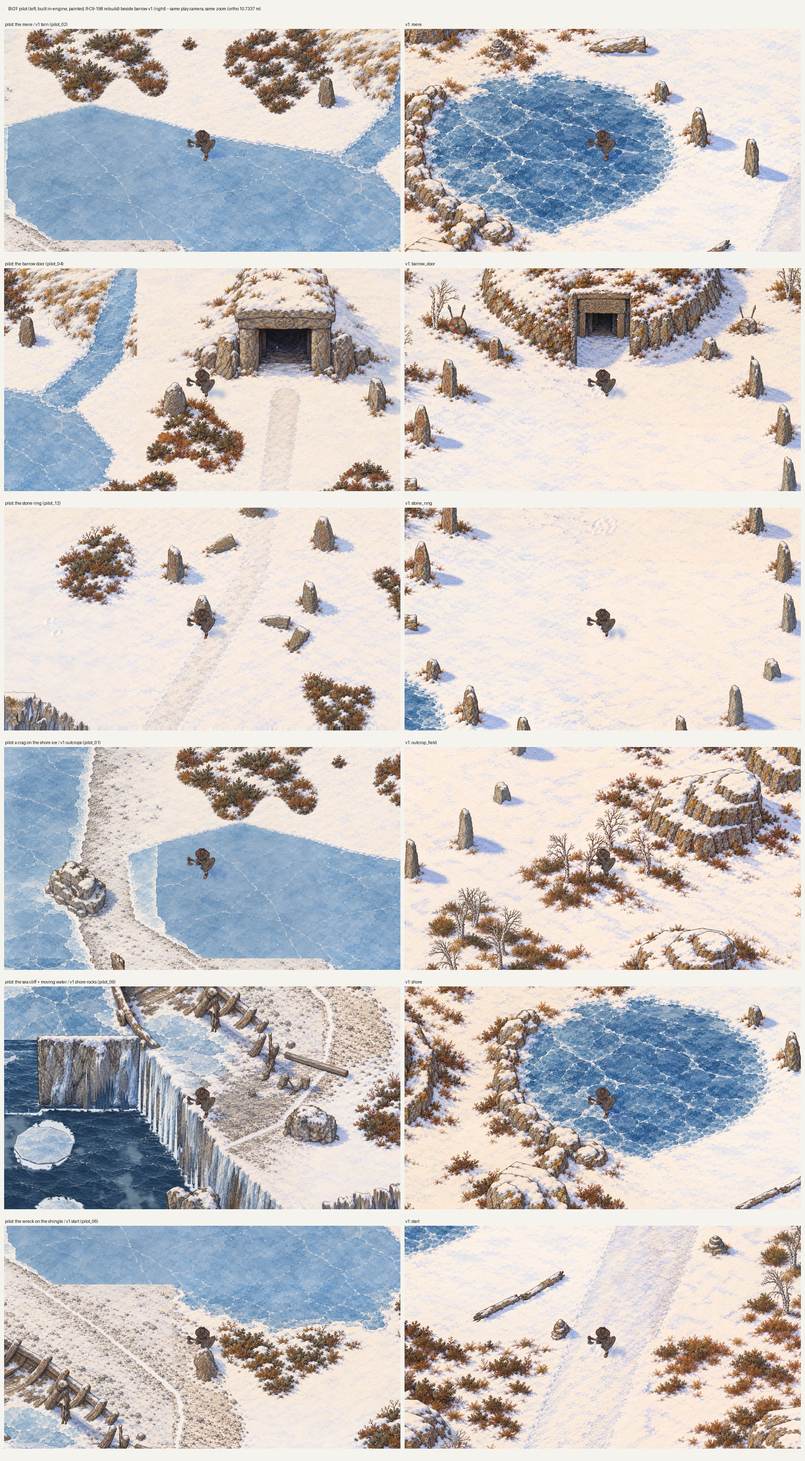
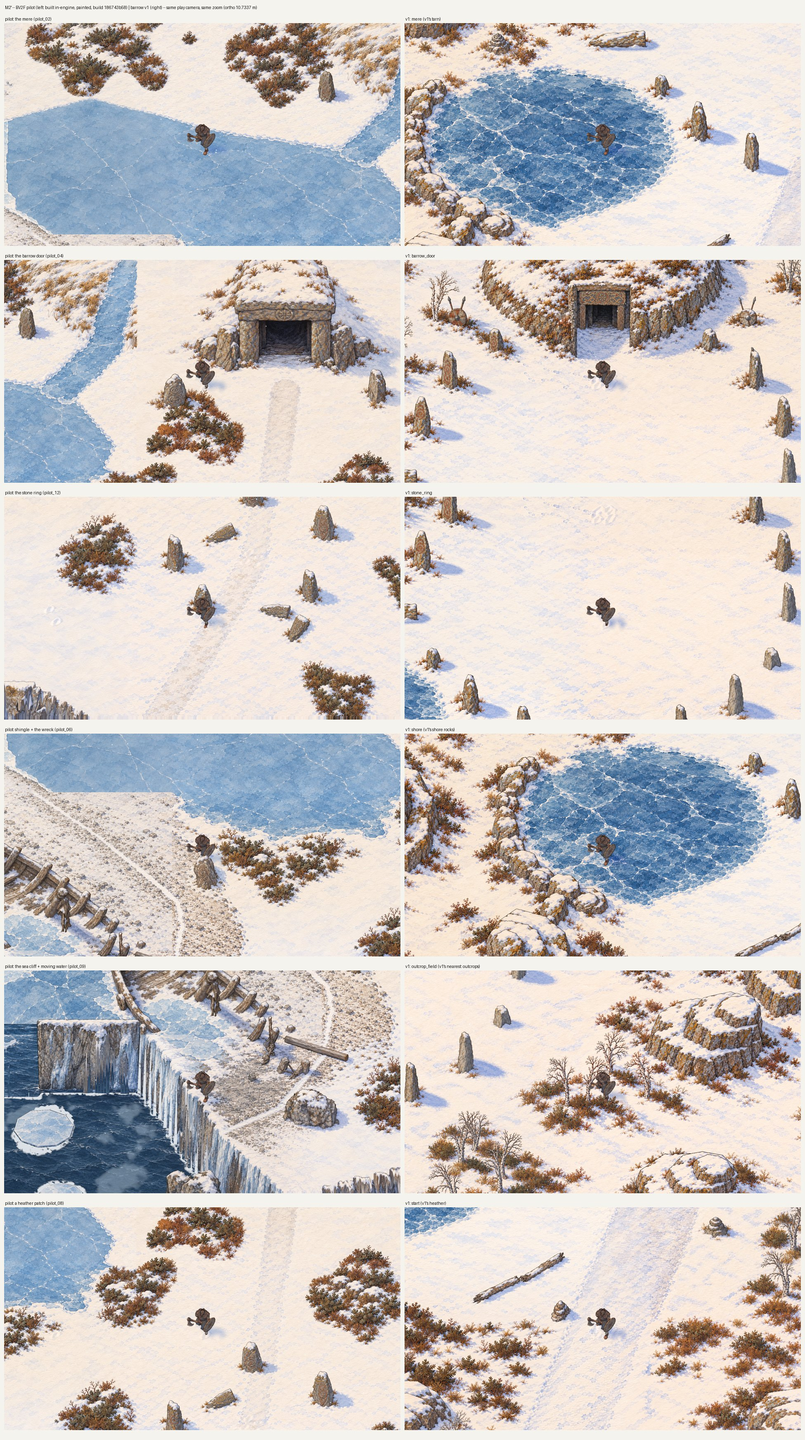
drax(C-9 P2 BV2F PT, R-C9-202): M2 material from build 186743b58 (no image spend) -- beside-v1 sheet (6 rows), ice/snow sheet (mere vs v1 tarn vs sketch A; coastal snow vs chunk 2_1 vs v1), slopes sheet (DEV-18 look check), walk film refreshed (37 s, fid/); F-6 positive control PASS at pin and HEAD,
Claude-Session: https://claude.ai/code/session_01Synmhf8YqWSEU9Kpsm5JJK

diff --git a/astra_test_01/burst/runs/C-9/barrow_v2/fid/pt/tools/m2_sheets.py b/astra_test_01/burst/runs/C-9/barrow_v2/fid/pt/tools/m2_sheets.py
@@ -1,0 +1,83 @@
+#!/usr/bin/env python3
+"""BV2F PT (R-C9-202): the M2' sheets from the CURRENT build's stills (no image spend), phone-sized (<= 2000 px wide).
+    python3 fid/pt/tools/m2_sheets.py <stills dir of the current build>"""
+import json, math, os, sys
+import numpy as np
+from PIL import Image, ImageDraw
+FID = os.path.dirname(os.path.dirname(os.path.dirname(os.path.abspath(__file__))))
+C9 = os.path.dirname(os.path.dirname(FID))
+ST = sys.argv[1]
+V1 = FID + "/pc/v1_stills"
+OUT = FID + "/pt/m2"
+os.makedirs(OUT, exist_ok=True)
+BG = (245, 243, 238)
+def lab(d, xy, s):
+    d.text(xy, s, fill=(20, 20, 20))
+# (1) pilot | v1, same zoom
+rows = [("the mere", "pilot_02", "mere (v1's tarn)"), ("the barrow door", "pilot_04", "barrow_door"),
+        ("the stone ring", "pilot_12", "stone_ring"), ("shingle + the wreck", "pilot_06", "shore (v1's shore rocks)"),
+        ("the sea cliff + moving water", "pilot_09", "outcrop_field (v1's nearest: outcrops)"),
+        ("a heather patch", "pilot_08", "start (v1's heather)")]
+W, H = 960, 540
+sh = Image.new("RGB", (2 * W + 30, len(rows) * (H + 34) + 46), BG)
+d = ImageDraw.Draw(sh)
+lab(d, (12, 12), "M2' -- BV2F pilot (left: built in-engine, painted, build 186743b58) | barrow v1 (right) -- same play camera, same zoom (ortho 10.7337 m)")
+for i, (cap, pn, v1n) in enumerate(rows):
+    y = 40 + i * (H + 34)
+    lab(d, (12, y), "pilot: %s (%s)" % (cap, pn)); lab(d, (W + 22, y), "v1: %s" % v1n)
+    sh.paste(Image.open("%s/%s.png" % (ST, pn)).convert("RGB").resize((W, H)), (10, y + 16))
+    sh.paste(Image.open("%s/%s.png" % (V1, v1n.split(" ")[0])).convert("RGB").resize((W, H)), (W + 20, y + 16))
+sh.save(OUT + "/M2p_pilot_beside_v1.jpg", quality=86)
+# (2) ice + snow
+PW, PH = 640, 360
+s2 = Image.new("RGB", (3 * PW + 40, 2 * (PH + 34) + 46), BG)
+d = ImageDraw.Draw(s2)
+lab(d, (12, 12), "M2' -- ICE: the pilot's mere | v1's tarn | sketch A's mere.   SNOW: coastal chunks 0_2/1_2 | neighbouring chunk 2_1 | v1 (painting crops, 1:1 px)")
+def fit(im, w, h):
+    im = im.convert("RGB"); r = max(w / im.width, h / im.height)
+    im = im.resize((int(im.width * r + 0.5), int(im.height * r + 0.5)))
+    x0, y0 = (im.width - w) // 2, (im.height - h) // 2
+    return im.crop((x0, y0, x0 + w, y0 + h))
+p02 = Image.open(ST + "/pilot_02.png"); v1m = Image.open(V1 + "/mere.png")
+sk = Image.open(C9 + "/barrow_v2/sites/BV3r2-A.png").crop((75, 72, 662, 374))
+for j, (im, cap) in enumerate([(p02.crop((0, 300, 1920, 1080)), "pilot mere (pilot_02, in-engine)"), (v1m.crop((0, 120, 1920, 900)), "v1 tarn (in-engine)"), (sk, "sketch A mere (BV3r2-A)")]):
+    x = 10 + j * (PW + 10); lab(d, (x, 40), cap); s2.paste(fit(im, PW, PH), (x, 56))
+# snow crops: the pilot painting / v1 painting, windows of mostly open snow
+P = np.asarray(Image.open(FID + "/pt/pilot/painting.png").convert("RGB"))
+I = json.load(open(FID + "/pt/pilot/ids_built/ids.json"))["placements"]
+ID8 = np.asarray(Image.open(FID + "/pt/pilot/ids_built.png").convert("RGB")).astype(int)
+idx = np.where(ID8[..., 2] > 100, np.clip(np.round((ID8[..., 1] - 8) / 16), 0, 15).astype(int) * 16 + np.clip(np.round((ID8[..., 0] - 8) / 16), 0, 15).astype(int), 0)
+snow = idx == {v["id"]: int(k) for k, v in I.items()}["ground_snow"]
+def best(mask, x0, y0, x1, y1):
+    bestv, bxy = -1, None
+    for y in range(y0, y1 - PH, 40):
+        for x in range(x0, x1 - PW, 40):
+            v = mask[y:y + PH, x:x + PW].mean()
+            if v > bestv: bestv, bxy = v, (x, y)
+    return bxy, bestv
+(a, va) = best(snow, 0, 1536, 2816, 2560)
+(b, vb) = best(snow, 2816, 768, 4096, 1792)
+V1P = np.asarray(Image.open(C9 + "/barrow_full/paint/barrow_full_painted.png").convert("RGB"))
+gu = np.asarray(Image.open(C9 + "/barrow_full/take/ground/ground_uv.png")); gu = gu[..., 0] if gu.ndim == 3 else gu
+V1I = np.asarray(Image.open(C9 + "/barrow_full/take/ids/ids.png").convert("RGB"))
+ground = V1I[..., 2] <= 100
+ys, xs = np.mgrid[0:V1P.shape[0], 0:V1P.shape[1]]
+uu = -28.715 + (xs + 0.5) / 100.617553710938; vv = 17.7203 - (ys + 0.5) / 80.3076
+gi = np.clip(((uu + 28.715) * 20).astype(int), 0, gu.shape[1] - 1); gj = np.clip(((17.7203 - vv) * 20).astype(int), 0, gu.shape[0] - 1)
+v1snow = ground & (gu[gj, gi] == 0)
+(c, vc) = best(v1snow, 0, 0, V1P.shape[1], V1P.shape[0])
+for j, (src, xy, share, cap) in enumerate([(P, a, va, "pilot coastal snow (chunks 0_2/1_2)"), (P, b, vb, "pilot snow, chunk 2_1"), (V1P, c, vc, "v1 open snow")]):
+    x = 10 + j * (PW + 10); y = 56 + PH + 34
+    lab(d, (x, y - 16), "%s  px %s, snow %.0f%%" % (cap, list(xy), 100 * share))
+    s2.paste(Image.fromarray(src[xy[1]:xy[1] + PH, xy[0]:xy[0] + PW]), (x, y))
+s2.save(OUT + "/M2p_ice_snow.jpg", quality=88)
+# (3) slopes: the mound flank (the northern rise, DEV-18) at 1:1 from the play-camera stills
+s3 = Image.new("RGB", (2 * W + 30, H + 70), BG)
+d = ImageDraw.Draw(s3)
+lab(d, (12, 12), "M2' -- SLOPES (R-C9-193 look check): the northern rise / mound flank at 1:1 px -- DEV-18 3D heather + snow layer on the terrain")
+for j, (pn, box, cap) in enumerate([("pilot_02", (480, 0, 1440, 540), "pilot_02 top: the rise above the mere"), ("pilot_03", (480, 0, 1440, 540), "pilot_03 top: the mound flank by the stream")]):
+    x = 10 + j * (W + 10); lab(d, (x, 36), cap)
+    s3.paste(Image.open("%s/%s.png" % (ST, pn)).convert("RGB").crop(box), (x, 54))
+s3.save(OUT + "/M2p_slopes.jpg", quality=88)
+for f in ("M2p_pilot_beside_v1.jpg", "M2p_ice_snow.jpg", "M2p_slopes.jpg"):
+    print(f, Image.open(OUT + "/" + f).size)

diff --git a/astra_test_01/burst/runs/C-9/barrow_v2/fid/pt/tools/pc5_compare.py b/astra_test_01/burst/runs/C-9/barrow_v2/fid/pt/tools/pc5_compare.py
@@ -1,0 +1,42 @@
+import hashlib, json, os
+SP = "/private/tmp/claude-501/-Users-admin-Games-reincarnated-collaboration/df21e264-6571-4d04-96ee-b8e2bd6d97fa/scratchpad"
+O = "/Users/admin/Games/reincarnated-collaboration/astra_test_01/burst/runs/C-9/barrow_full"
+PC = "/Users/admin/Games/reincarnated-collaboration/astra_test_01/burst/runs/C-9/barrow_v2/fid/pc"
+sha = lambda p: hashlib.sha256(open(p, "rb").read()).hexdigest()
+res = {"_what": "BV2F R-C9-202 F-6: positive control T1-T3 re-measured at the Phase-0 pin f1aa715ac and at current barrow_full HEAD, each in its own APFS clone; v1 tools run unmodified in the clone; barrow_full untouched (control_shas_m2.json).",
+       "pin_clone": "HEAD working tree with the paths added after f1aa715ac moved out (godot/data/bv2f, godot/scripts/bv2f, godot/tools/bv2f, godot/scenes/bv2f_barrow_v2.tscn); git diff f1aa715ac..HEAD on barrow_full = additions only (all under bv2f roots), no v1 file modified",
+       "head_commit_barrow_full": "186743b58", "runs": {}}
+for tag in ("pin", "head"):
+    BF = "%s/pc5_%s/C-9/barrow_full" % (SP, tag); OUT = "%s/pc5_%s/out" % (SP, tag)
+    r = {}
+    ic = json.load(open(BF + "/take/ids/ids.json"))["instrument_check"]
+    r["T1"] = {"worst_px": ic["worst_px_camera_vs_formula"], "placements_checked": ic["placements_checked"],
+               "ids_png_ident_v1": sha(BF + "/take/ids/ids.png") == sha(BF + "/take/ids_v1orig/ids.png"),
+               "ids_json_ident_v1": sha(BF + "/take/ids/ids.json") == sha(O + "/take/ids/ids.json"),
+               "take_outputs_ident_v1": {f: sha(BF + "/take/" + f) == sha(O + "/take/" + f) for f in ("take_report.json", "plates/plates.json", "masks/tufts.json", "masks/density_uv.png", "ground/ground_uv.png", "ground/splat_world.png")}}
+    m = json.load(open(BF + "/take/build/mini_overlay.json"))
+    r["T2"] = {"unlit_mean_abs": m["summary"]["unlit_mean_abs"], "lit_mean_abs_informational": m["summary"]["lit_mean_abs"],
+               "per_piece_unlit": {k: v["unlit"]["mean_abs"] for k, v in m["pieces"].items()}}
+    oc = json.load(open(OUT + "/overlay_check.json"))["variants"]["as_painted"]
+    tw = oc["whole_window"]["heather + shrub tufts"]
+    pp = json.load(open(BF + "/take/build/painted_prep.json"))["heather"]["placement"]
+    ndiff = sum(1 for dp, _, fs in os.walk(O + "/godot/data/painted") for f in fs if sha(os.path.join(dp, f)) != sha(os.path.join(dp, f).replace(O, BF)))
+    r["T3"] = {"precision_drawn_on_painted": tw["precision_drawn_on_painted"], "coverage": tw["coverage"],
+               "per_chunk_precision": {k: v["heather + shrub tufts"]["precision_drawn_on_painted"] for k, v in oc["per_chunk"].items()},
+               "painted_prep_heather_share": pp["heather"]["tuft_cells_covered_share"], "painted_prep_shrub_share": pp["shrub"]["tuft_cells_covered_share"],
+               "painted_data_files_differing_from_v1": ndiff}
+    res["runs"][tag] = r
+P0 = json.load(open(PC + "/results.json"))
+rec = {"T1_worst": 0.004, "T2_unlit": 15.5, "T3_precision": 0.5221, "T3_coverage": 0.3407, "T3_share": 0.4379}
+v = {}
+for tag, r in res["runs"].items():
+    ok = (r["T1"]["worst_px"] <= 0.005 and r["T1"]["placements_checked"] == 86 and r["T1"]["ids_png_ident_v1"] and r["T1"]["ids_json_ident_v1"] and all(r["T1"]["take_outputs_ident_v1"].values())
+          and abs(r["T2"]["unlit_mean_abs"] - 15.5) <= 0.5
+          and abs(r["T3"]["precision_drawn_on_painted"] - 0.5221) <= 0.0005 and abs(r["T3"]["coverage"] - 0.3407) <= 0.0005
+          and r["T3"]["painted_prep_heather_share"] == 0.4379 and r["T3"]["painted_data_files_differing_from_v1"] == 0)
+    v[tag] = "PASS" if ok else "MISS"
+same = json.dumps(res["runs"]["pin"], sort_keys=True) == json.dumps(res["runs"]["head"], sort_keys=True)
+res["verdict"] = {"pin": v["pin"], "head": v["head"], "pin_vs_head_identical": same,
+                  "halt": (not same) or v["pin"] != "PASS" or v["head"] != "PASS"}
+json.dump(res, open(PC + "/results_phase2p_m2.json", "w"), indent=1)
+print(json.dumps(res["verdict"]), {t: (r["T1"]["worst_px"], r["T2"]["unlit_mean_abs"], r["T2"]["lit_mean_abs_informational"], r["T3"]["precision_drawn_on_painted"], r["T3"]["painted_prep_heather_share"]) for t, r in res["runs"].items()})
